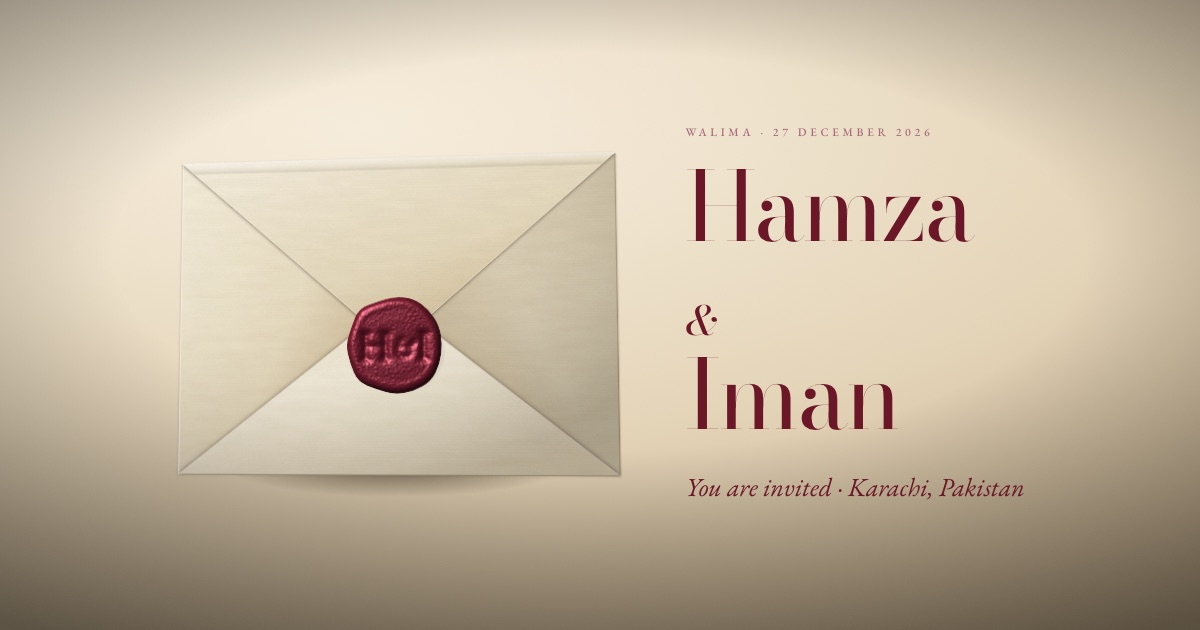
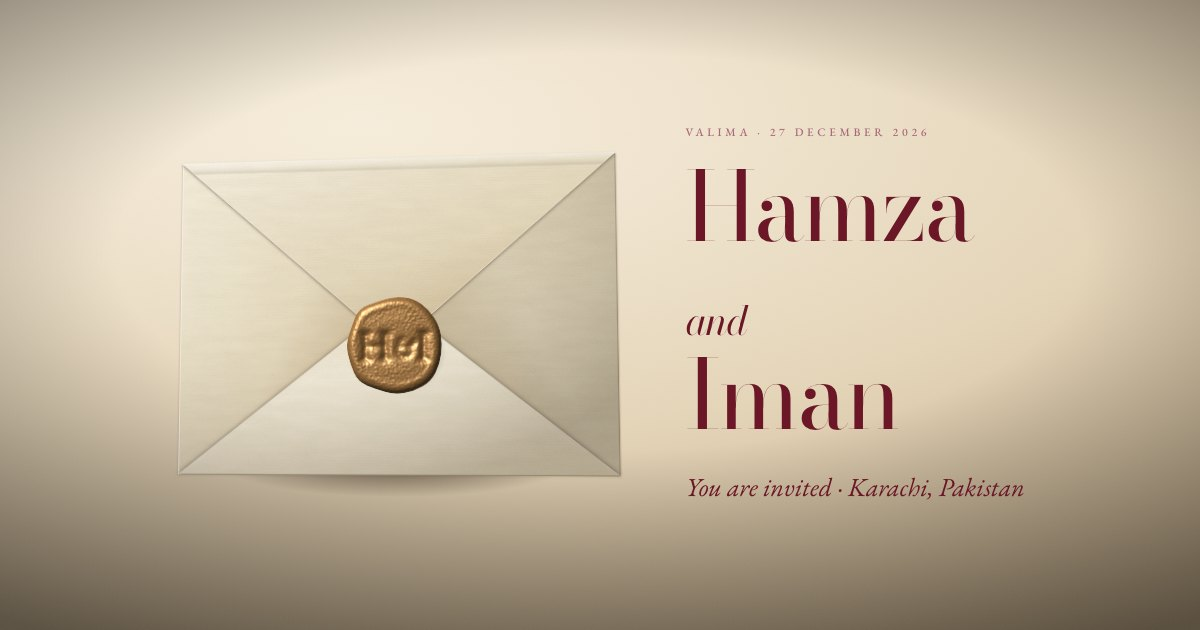
Valima: correct spelling, In sha Allah in the lower dome, contact numbers
- 'Walima' -> 'Valima' in every visible word: invitation line, envelope,
  page title, link preview (regenerated), WhatsApp message and calendar
- The empty lower arch: In sha Allah in gold now sits in the bottom dome,
  answering the Bismillah in the top one (as on the Save the Date). The
  parents' line wraps to two centred lines so it can sit lower between the
  flowers, and the page is ~50px shorter
- Rabia Baig +92 333 3900202, Mirza Ali Baig +971 54 373 3451, shown as
  written (new optional 'display' on contacts)

The URL stays /walima/ so existing links keep working.

diff --git a/walima/index.html b/walima/index.html
@@ -5,18 +5,18 @@
     <meta http-equiv="Cache-Control" content="no-cache" />
     <meta name="viewport" content="width=device-width, initial-scale=1, viewport-fit=cover" />
     <meta name="theme-color" content="#f6eedc" />
-    <title>Hamza &amp; Iman · Walima · 27 December 2026</title>
-    <meta name="description" content="You are invited to the Walima of Hamza and Iman. Sunday, 27 December 2026, Karachi." />
+    <title>Hamza &amp; Iman · Valima · 27 December 2026</title>
+    <meta name="description" content="You are invited to the Valima of Hamza and Iman. Sunday, 27 December 2026, Karachi." />
     <!-- Open Graph: the WhatsApp preview. Replace https://SITE_URL with the real domain. -->
     <meta property="og:type" content="website" />
-    <meta property="og:title" content="Hamza &amp; Iman · Walima · 27 December 2026" />
-    <meta property="og:description" content="You are invited to the Walima of Hamza and Iman. Sunday, 27 December 2026, Karachi." />
+    <meta property="og:title" content="Hamza &amp; Iman · Valima · 27 December 2026" />
+    <meta property="og:description" content="You are invited to the Valima of Hamza and Iman. Sunday, 27 December 2026, Karachi." />
     <meta property="og:image" content="https://hbaig2701.github.io/wedding-invite/og/walima.jpg" />
     <meta property="og:image:width" content="1200" />
     <meta property="og:image:height" content="630" />
     <meta property="og:url" content="https://hbaig2701.github.io/wedding-invite/walima/" />
     <meta name="twitter:card" content="summary_large_image" />
-    <meta name="twitter:title" content="Hamza &amp; Iman · Walima · 27 December 2026" />
+    <meta name="twitter:title" content="Hamza &amp; Iman · Valima · 27 December 2026" />
     <meta name="twitter:image" content="https://hbaig2701.github.io/wedding-invite/og/walima.jpg" />
     <link rel="icon" href="/favicon.svg" type="image/svg+xml" />
     <meta name="robots" content="noindex" />

diff --git a/src/content/walima.ts b/src/content/walima.ts
@@ -10,9 +10,9 @@ import sindClubMap from '../assets/walima/map-sind-club.jpg'
 
 export const walima: InviteContent = {
   event: 'walima',
-  eventLabel: 'Walima',
+  eventLabel: 'Valima',
   eventLabelUrdu: 'ولیمہ',
-  siteTitle: 'Hamza & Iman · Walima',
+  siteTitle: 'Hamza & Iman · Valima',
 
   bismillah: {
     arabic: 'بِسْمِ ٱللَّٰهِ ٱلرَّحْمَٰنِ ٱلرَّحِيمِ',
@@ -31,12 +31,12 @@ export const walima: InviteContent = {
 
   hero: {
     hosts: 'Rabia and Mirza Ali Baig',
-    line: 'cordially invite you to the Walima\nof their son',
-    afterNames: 'Daughter of Sania and Shahid Mahmood',
+    line: 'cordially invite you to the Valima\nof their son',
+    afterNames: 'Daughter of\nSania and Shahid Mahmood',
   },
 
   invitationLine:
-    'Rabia and Mirza Ali Baig\nrequest the honour of your presence\nat the Walima of their son\n**Hamza**\nwith\n**Iman**\ndaughter of Sania and Shahid Mahmood',
+    'Rabia and Mirza Ali Baig\nrequest the honour of your presence\nat the Valima of their son\n**Hamza**\nwith\n**Iman**\ndaughter of Sania and Shahid Mahmood',
   invitationClosing: 'and afterwards at the reception',
 
   date: {
@@ -102,9 +102,8 @@ export const walima: InviteContent = {
   },
 
   contacts: [
-    // «WHATSAPP NUMBERS TO CONFIRM» — the box reads "Number to follow" until then
-    { name: 'Rabia Baig', role: '', whatsapp: '' },
-    { name: 'Mirza Ali Baig', role: '', whatsapp: '' },
+    { name: 'Rabia Baig', role: '', whatsapp: '923333900202', display: '+92 333 3900202' },
+    { name: 'Mirza Ali Baig', role: '', whatsapp: '971543733451', display: '+971 54 373 3451' },
   ],
 
   musicUrl: 'music/tu-jaane-na.m4a',   // Tu Jaane Na, orchestral version

diff --git a/src/styles/sections.css b/src/styles/sections.css
@@ -1178,7 +1178,7 @@ html.lenis, html.lenis body { height: auto; }
   --s: calc(var(--vw) * 100 / 1016);
   min-height: calc(var(--s) * 1466);
   align-items: flex-start;
-  padding: calc(var(--s) * 178) calc(var(--s) * 124) calc(var(--s) * 571 + 12px);
+  padding: calc(var(--s) * 178) calc(var(--s) * 124) calc(var(--s) * 466);
 }
 .arch-frame { position: absolute; inset: 0; pointer-events: none; z-index: 1; }
 .arch-frame > * { position: absolute; display: block; }
@@ -1262,3 +1262,19 @@ html.lenis, html.lenis body { height: auto; }
 
 /* a contact whose number is still to come: the same box, not a link */
 .contact-link-pending { cursor: default; }
+
+/* Valima: In sha Allah in the arch's lower dome, answering the Bismillah at
+   the top (as on the Save the Date) */
+.arch-inshallah {
+  left: 50%;
+  bottom: calc(var(--s) * 154);
+  width: calc(var(--s) * 290);
+  aspect-ratio: 350 / 106;
+  transform: translateX(-50%);
+  background-image: linear-gradient(105deg, var(--gold-deep) 0%, var(--gold-dark) 22%, var(--gold) 42%, var(--gold-light) 52%, var(--gold) 62%, var(--gold-dark) 80%, var(--gold-deep) 100%);
+  -webkit-mask-image: url('../assets/masks/inshallah-mask.png');
+  mask-image: url('../assets/masks/inshallah-mask.png');
+  -webkit-mask-size: contain; mask-size: contain;
+  -webkit-mask-repeat: no-repeat; mask-repeat: no-repeat;
+  -webkit-mask-position: center; mask-position: center;
+}

diff --git a/src/components/sections/Hero.tsx b/src/components/sections/Hero.tsx
@@ -39,7 +39,7 @@ export function Hero({ content, theme, opened, instant = false }: { content: Inv
                 ? <span className="hero-name hero-name-nastaliq" lang="ur" dir="rtl">{c.couple.secondArabic}</span>
                 : <span className="hero-name hero-name-script">{c.couple.second}</span>}
             </motion.h1>
-            {c.hero.afterNames && <motion.p {...item(5)} className="hero-parents hero-after">{c.hero.afterNames}</motion.p>}
+            {c.hero.afterNames && <motion.p {...item(5)} className="hero-parents hero-after">{c.hero.afterNames.split('\n').map((l, i) => <span key={i}>{i > 0 && <br />}{l}</span>)}</motion.p>}
           </div>
         </div>
       </section>
@@ -85,6 +85,7 @@ function ArchFrame() {
       <svg className="arch-line arch-line-bottom" viewBox="0 1080 1016 386" preserveAspectRatio="none"><path d={ARCH_BOTTOM} /></svg>
       <i className="arch-flora arch-flora-l" />
       <i className="arch-flora arch-flora-r" />
+      <i className="arch-inshallah" role="img" aria-label="إن شاء الله" />
     </div>
   )
 }

diff --git a/src/components/sections/Contact.tsx b/src/components/sections/Contact.tsx
@@ -27,7 +27,7 @@ export function Contact({ content }: { content: InviteContent }) {
                 {p.role && <div className="contact-role">{p.role}</div>}
                 {p.whatsapp ? <a className="contact-link" href={whatsappUrl(p.whatsapp, `Assalamu alaikum ${p.name}, I have a question about the ${c.eventLabel} on ${c.date.short}.`)} target="_blank" rel="noopener noreferrer">
                   <span className="contact-link-main"><WaIcon /> Message on WhatsApp</span>
-                  <span className="contact-number">+{p.whatsapp.replace(/^(\d{3})(\d+)$/, '$1 $2')}</span>
+                  <span className="contact-number">{p.display || `+${p.whatsapp.replace(/^(\d{3})(\d+)$/, '$1 $2')}`}</span>
                 </a> : (
                   <span className="contact-link contact-link-pending">
                     <span className="contact-link-main"><WaIcon /> WhatsApp</span>

diff --git a/src/content/types.ts b/src/content/types.ts
@@ -25,6 +25,8 @@ export interface Contact {
   role: string        // "Father of the bride"
   /** International format, digits only, no plus. e.g. 923001234567 */
   whatsapp: string
+  /** How the number is shown, if the automatic grouping isn't right. */
+  display?: string
 }
 
 export interface InviteContent {
